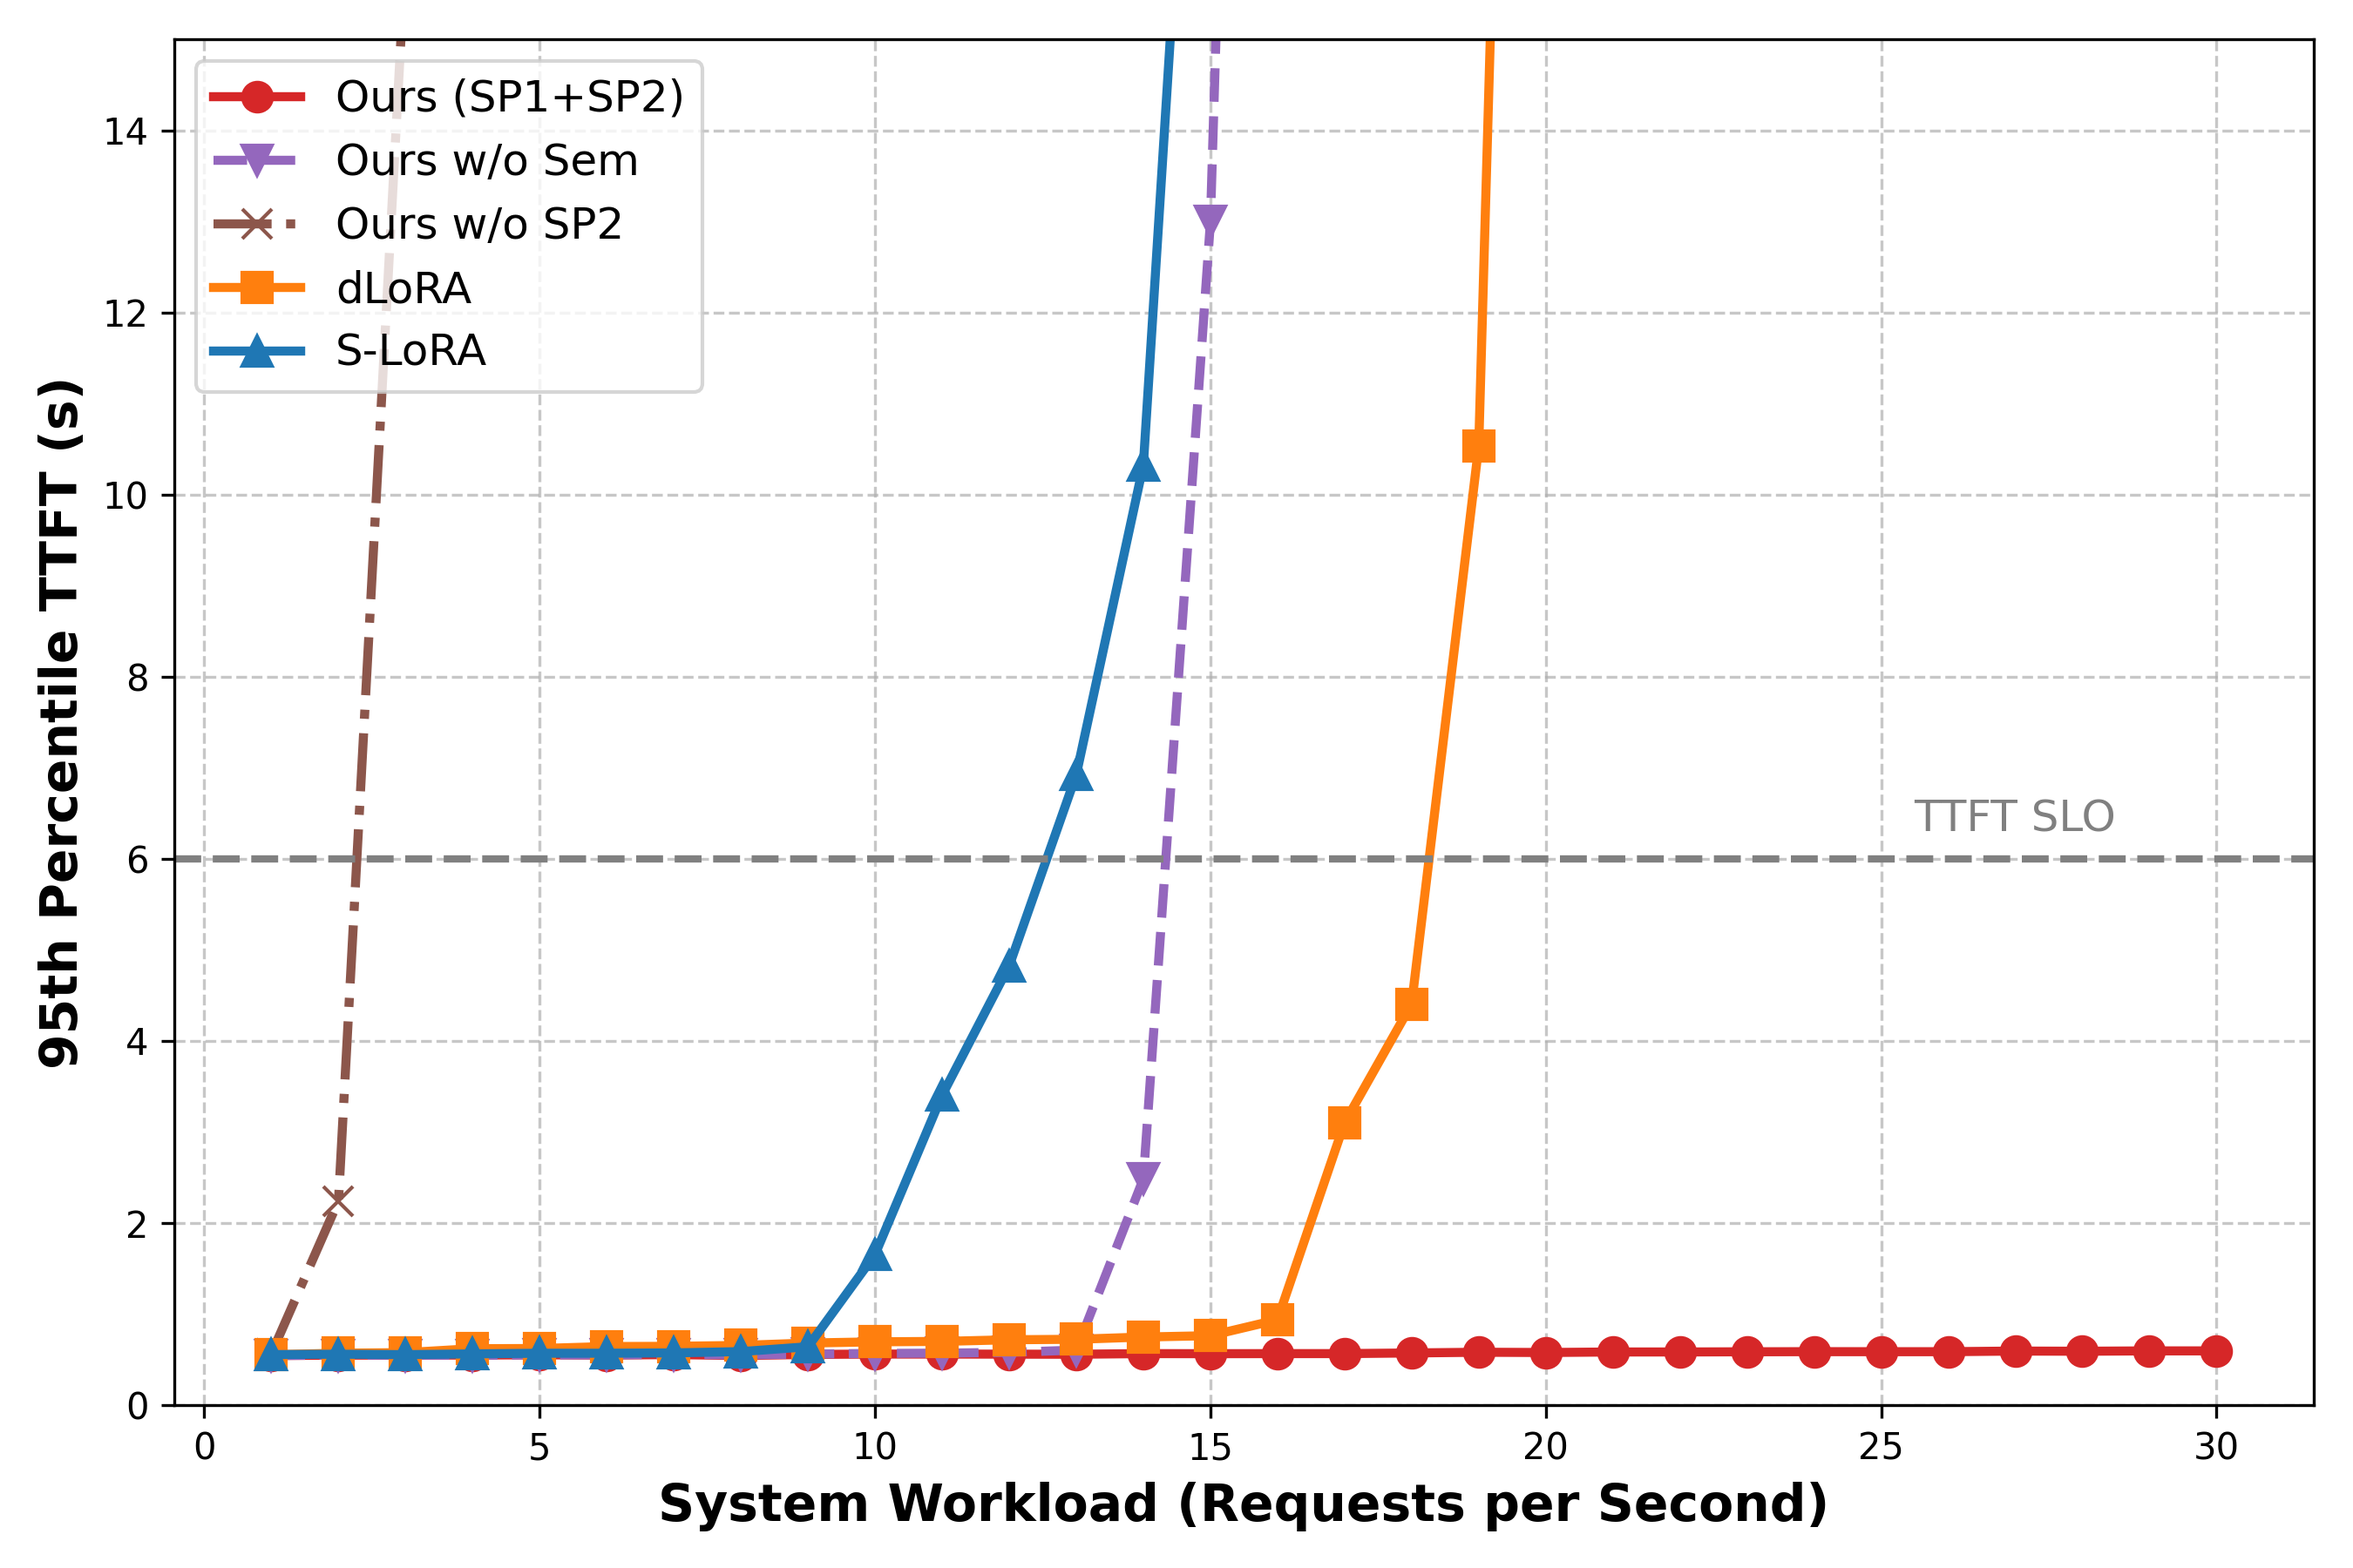
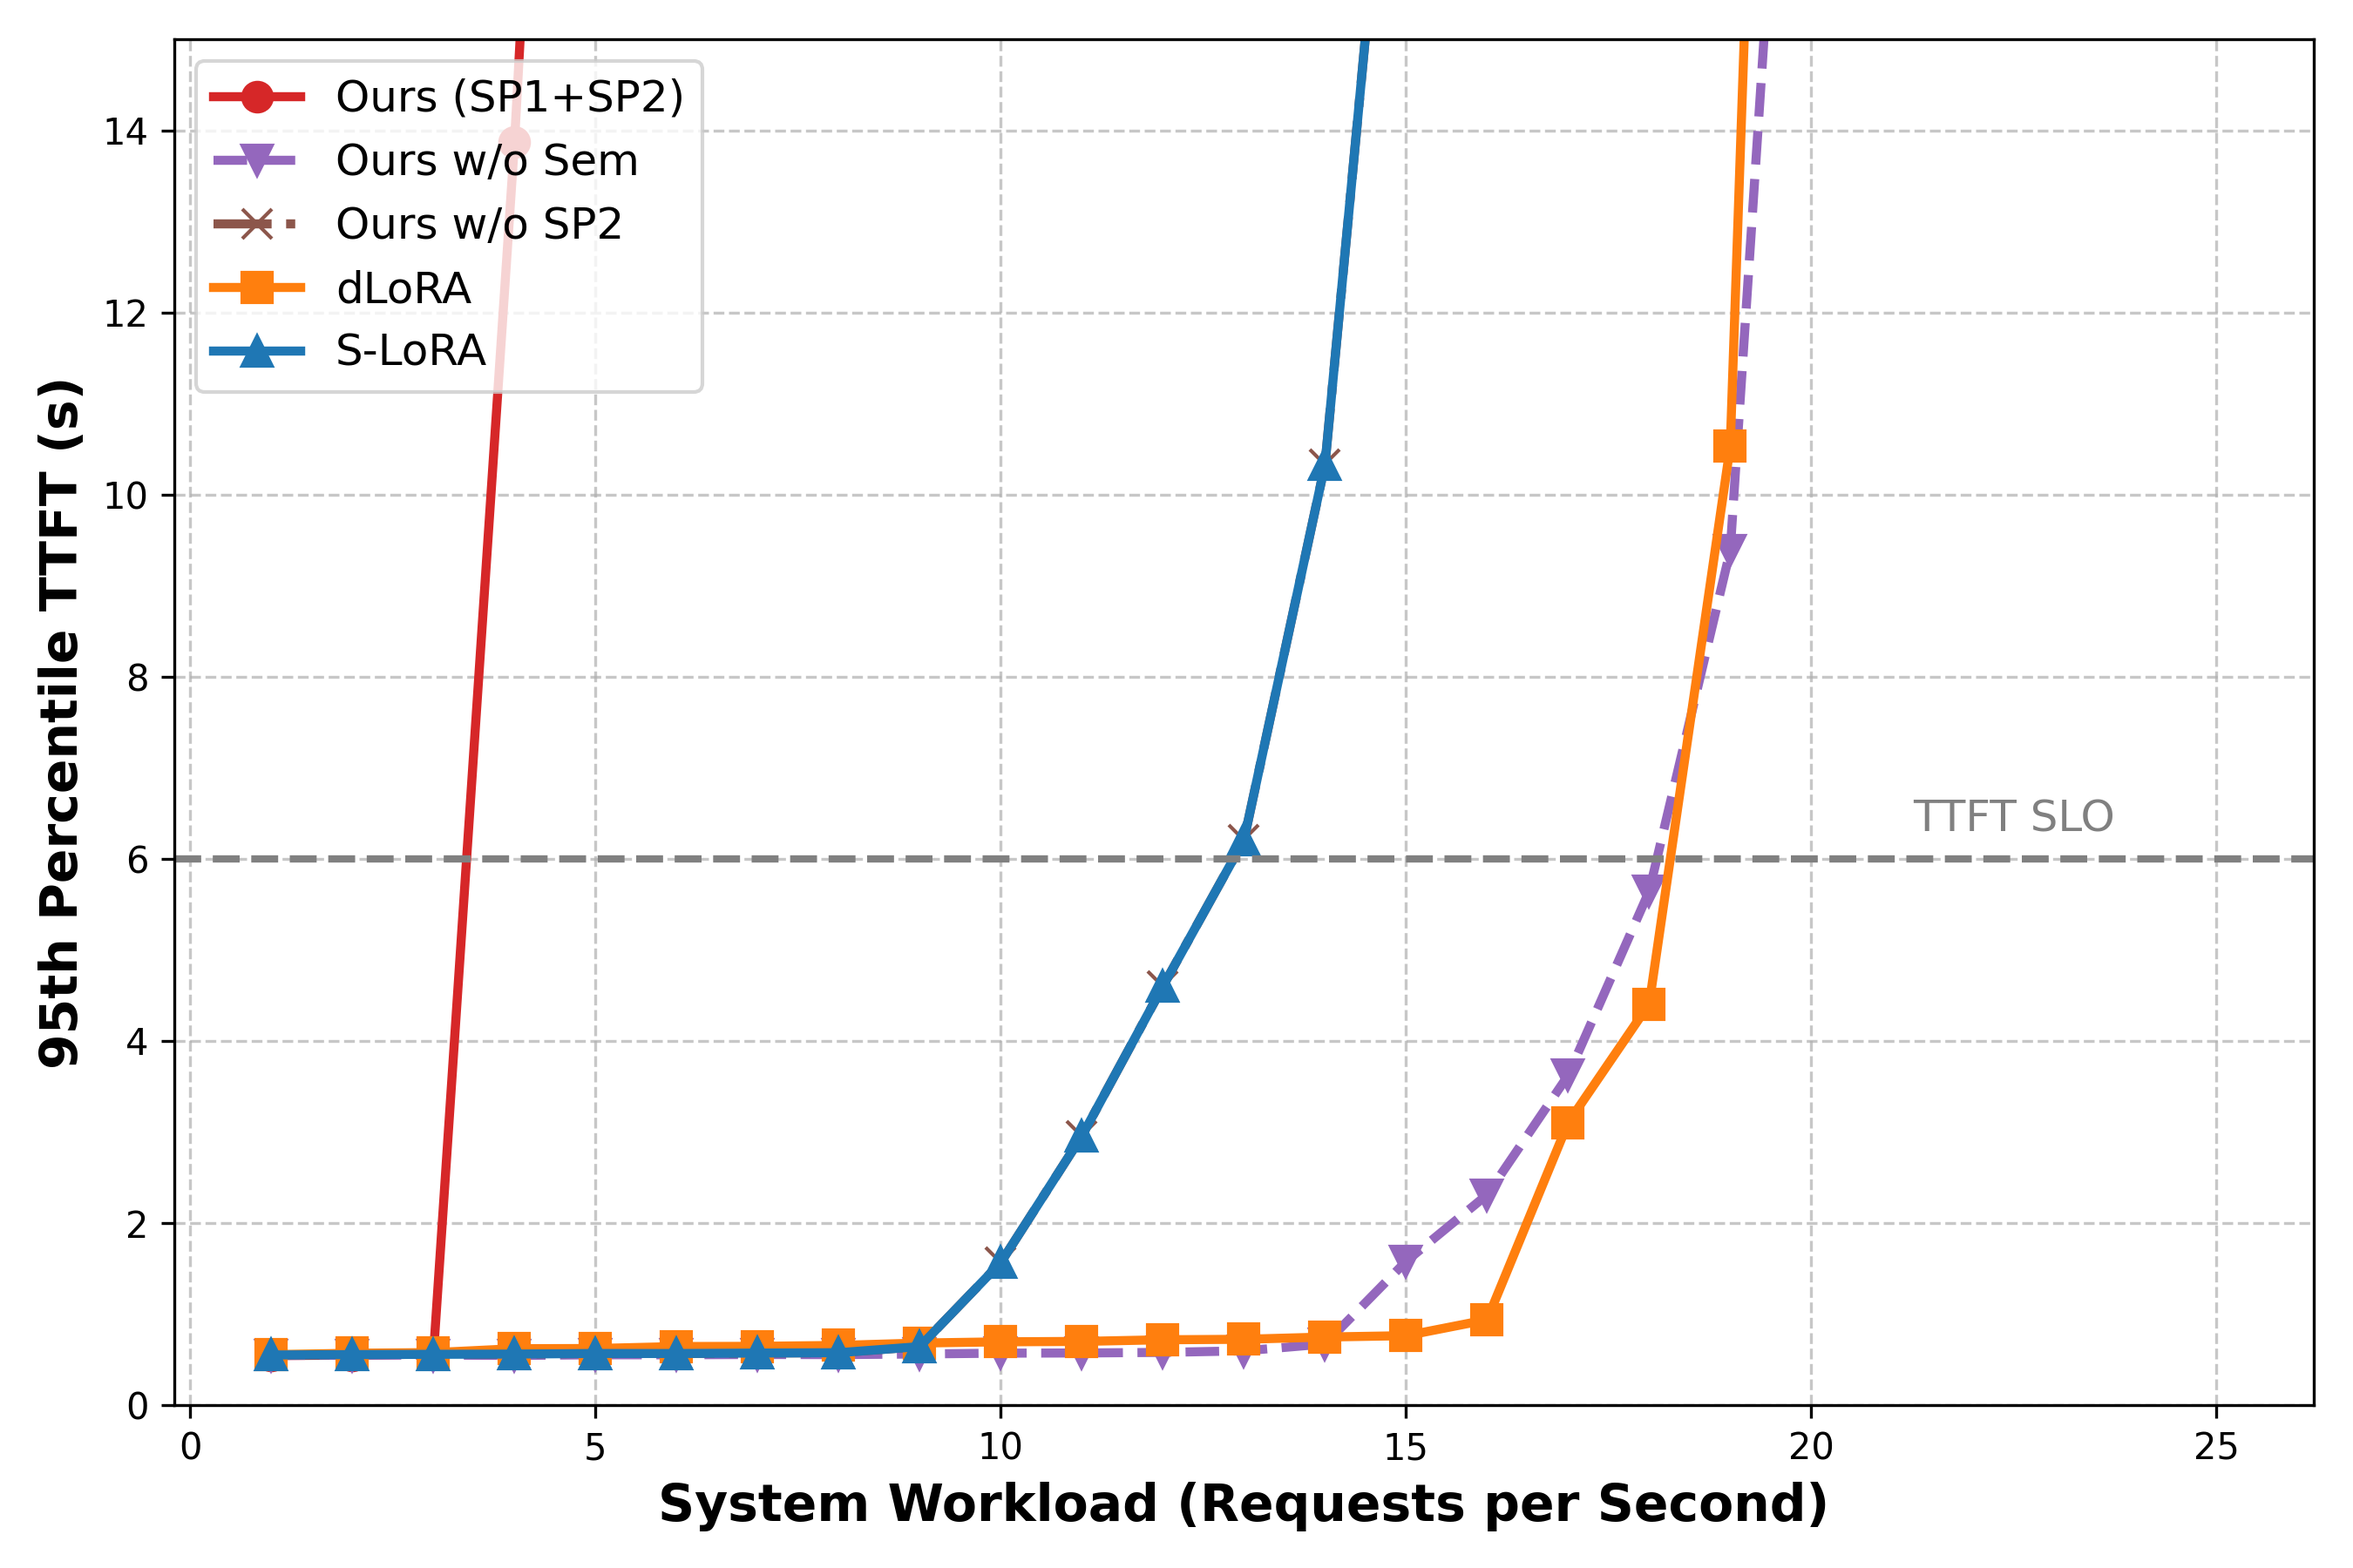
tmp

diff --git a/discrete_sim/sim_control_node.py b/discrete_sim/sim_control_node.py
@@ -32,8 +32,9 @@ class VirtualNodeState:
         self.capacity_merged = MERGED_CAPACITY
         self.capacity_unmerged = UNMERGED_CAPACITY
         
-        # [核心修復] 引入 inner-tick 的動態駐列長度追蹤
-        self.simulated_queue_len = len(self.request_set)
+        # [⭐ 核心修復 1] 將等待駐列 (waiting_queue) 加入計算，讓排程器看見真實的塞車狀況，解決 Dogpiling 與預測失真問題
+        waiting_q_len = load.get("waiting_queue", 0)
+        self.simulated_queue_len = len(self.request_set) + waiting_q_len
 
     def get_free_slots(self, target_lora: str) -> int:
         if self.mode == "merge":
@@ -274,7 +275,7 @@ class SimControlNodeSP2(SimControlNodeBase):
         else:
             avg_per_req = SIM_DECODE_BASE_TIME * FIXED_OUTPUT_LEN
             
-        # [核心修復] 使用動態遞增的 simulated_queue_len，讓 Ours 達成完美負載平衡
+        # 由於修正了 simulated_queue_len，此處預測將反映真實的駐列狀態
         queue_len = node.simulated_queue_len
         return queue_len * avg_per_req + load_delay
 
@@ -294,7 +295,8 @@ class SimControlNodeSP2(SimControlNodeBase):
             if v.node.node_id in self.switching_nodes:
                 continue
             
-            can_merge = (unmerged_count > 1) or (total_pending > 10)
+            # [⭐ 核心修復 3] 移除 or (total_pending > 10) 的後門，強制保底至少 1 個節點處於 unmerge 狀態
+            can_merge = (unmerged_count > 1)
             
             if v.mode == "unmerge" and can_merge and len(v.request_set) >= MERGE_THRESHOLD:
                 counts = defaultdict(int)
@@ -320,11 +322,11 @@ class SimControlNodeSP2(SimControlNodeBase):
             for req in list(self.pending_queue):
                 target_aid = req.original_adapter_id
                 meta = self.lora_metadata.get(target_aid, {})
-                valid_aids = [target_aid] + [s for s in meta.get("substitutes", [])
-                                             if s in self.local_available_loras]
-                valid_aids = [aid for aid in valid_aids if aid in self.local_available_loras]
-                if not valid_aids:
-                    valid_aids = [target_aid]
+                
+                # [⭐ 修正]: 永遠保留 target_aid 作為選項！讓 Lyapunov 排程器自己決定 
+                # 「要排隊等現成的 substitute」還是「去閒置節點載入 target_aid」
+                subs = [s for s in meta.get("substitutes", []) if s in self.local_available_loras]
+                valid_aids = [target_aid] + subs
 
                 best_plan = None
                 for aid in valid_aids:
@@ -432,12 +434,8 @@ class SimControlNodeRandom(SimControlNodeBase):
             valid_ttft = v_nodes 
 
             if valid_ttft:
-                cache_hits = [v for v in valid_ttft if aid in v.active_loras or aid in v.loaded_adapters]
-                if cache_hits:
-                    # [稍微強一點] 不再盲目隨機，而是在快取命中的節點中找排隊最短的，這避免了 Dogpiling 導致的異常成績
-                    target = min(cache_hits, key=lambda v: v.simulated_queue_len)
-                else:
-                    target = min(valid_ttft, key=lambda v: v.simulated_queue_len)
+                # [⭐ 修正]: 取消 cache_hits 的強迫綁定，回歸最純粹的隨機分發，對齊 S-LoRA 的 Random 負載平衡能力
+                target = self._rng.choice(valid_ttft)
                 
                 target.commit_request(aid)
                 target.node.submit_request(req)
@@ -539,7 +537,6 @@ class SimControlNodeLRU(SimControlNodeBase):
             elif self.dispatch_strategy == "greedy":
                 cache_hits = [v for v in valid if aid in v.active_loras or aid in v.loaded_adapters]
                 if cache_hits:
-                    # [對齊] 讓 S-LoRA 的邏輯跟 Ours w/o SP2 完全一樣，會平衡排隊，所以不會異常小於1，但因為沒有合併與全域協調，表現會爛得很真實
                     target = min(cache_hits, key=lambda v: v.simulated_queue_len)
                 else:
                     target = min(valid, key=lambda v: v.simulated_queue_len)
@@ -673,7 +670,6 @@ class SimControlNodeDLoRA(SimControlNodeBase):
                     best_node.node.submit_request(req)
                     self.pending_queue.remove(req)
 
-    # [保留原貌] dLoRA 的排隊估算完全不更動
     def _calc_pending_time(self, node: VirtualNodeState, target_lora: str) -> float:
         is_in_cpu = target_lora in node.loaded_adapters
         load_delay = 0.0 if is_in_cpu else SIM_LOAD_DELAY

diff --git a/discrete_sim/run_TTFT_rps.py b/discrete_sim/run_TTFT_rps.py
@@ -128,7 +128,7 @@ def main():
     print("=== Parallel P95 TTFT vs. RPS Analysis (No-Drop Saturation) ===")
     print("=" * 70)
 
-    rps_list = list(range(1, 31))
+    rps_list = list(range(1, 26, 2))
     strategies = ["ours", "ours_no_sem", "ours_no_sp2", "dlora", "lru"]
     
     tasks = [(rps, strat) for strat in strategies for rps in rps_list]
@@ -144,7 +144,7 @@ def main():
     df = df.sort_values(by=['Strategy', 'RPS'])
     
     os.makedirs('results/ttft_rps', exist_ok=True)
-    csv_path = 'results/ttft_rps/p95_ttft_results.csv'
+    csv_path = 'p95_ttft_results.csv'
     df.to_csv(csv_path, index=False)
     
     # 繪製學術級圖表
